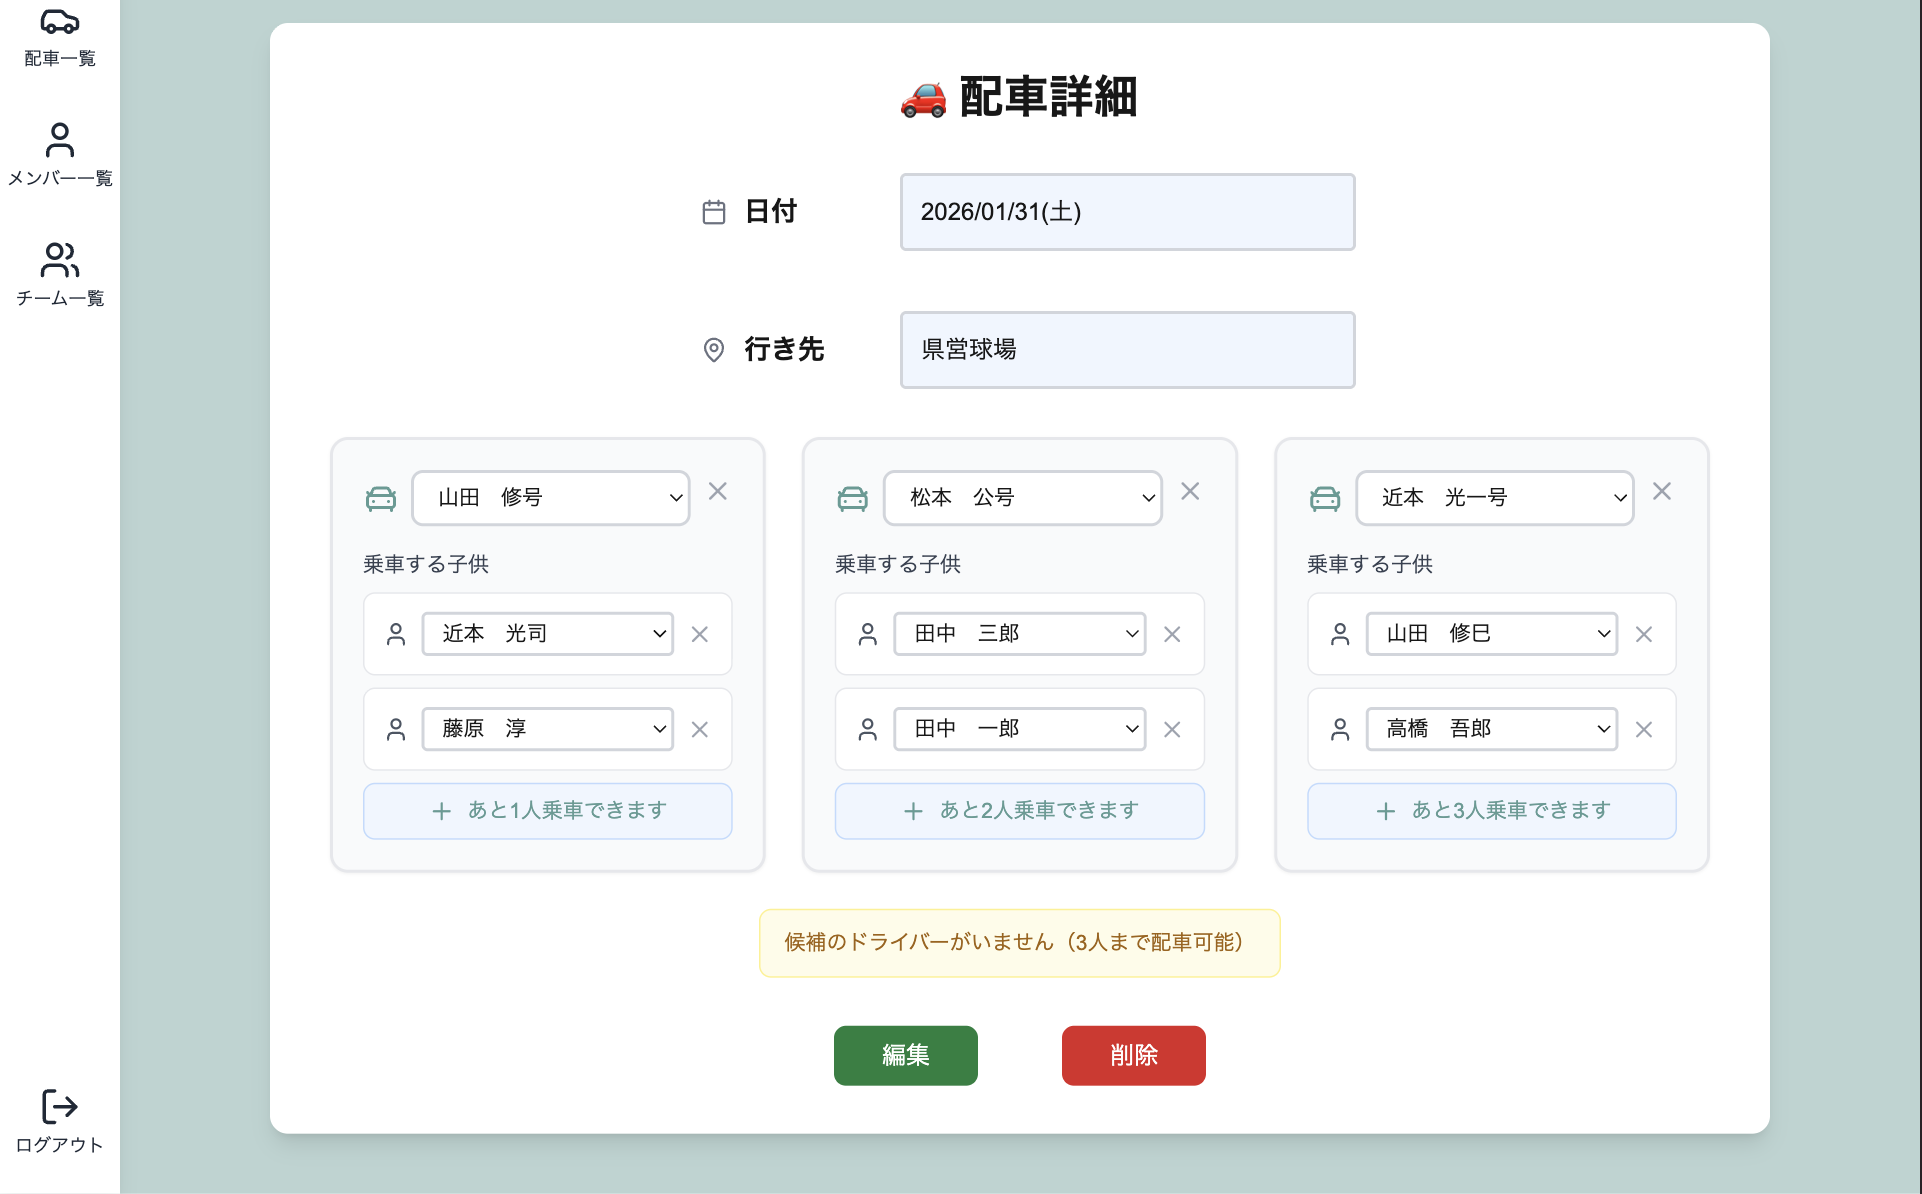
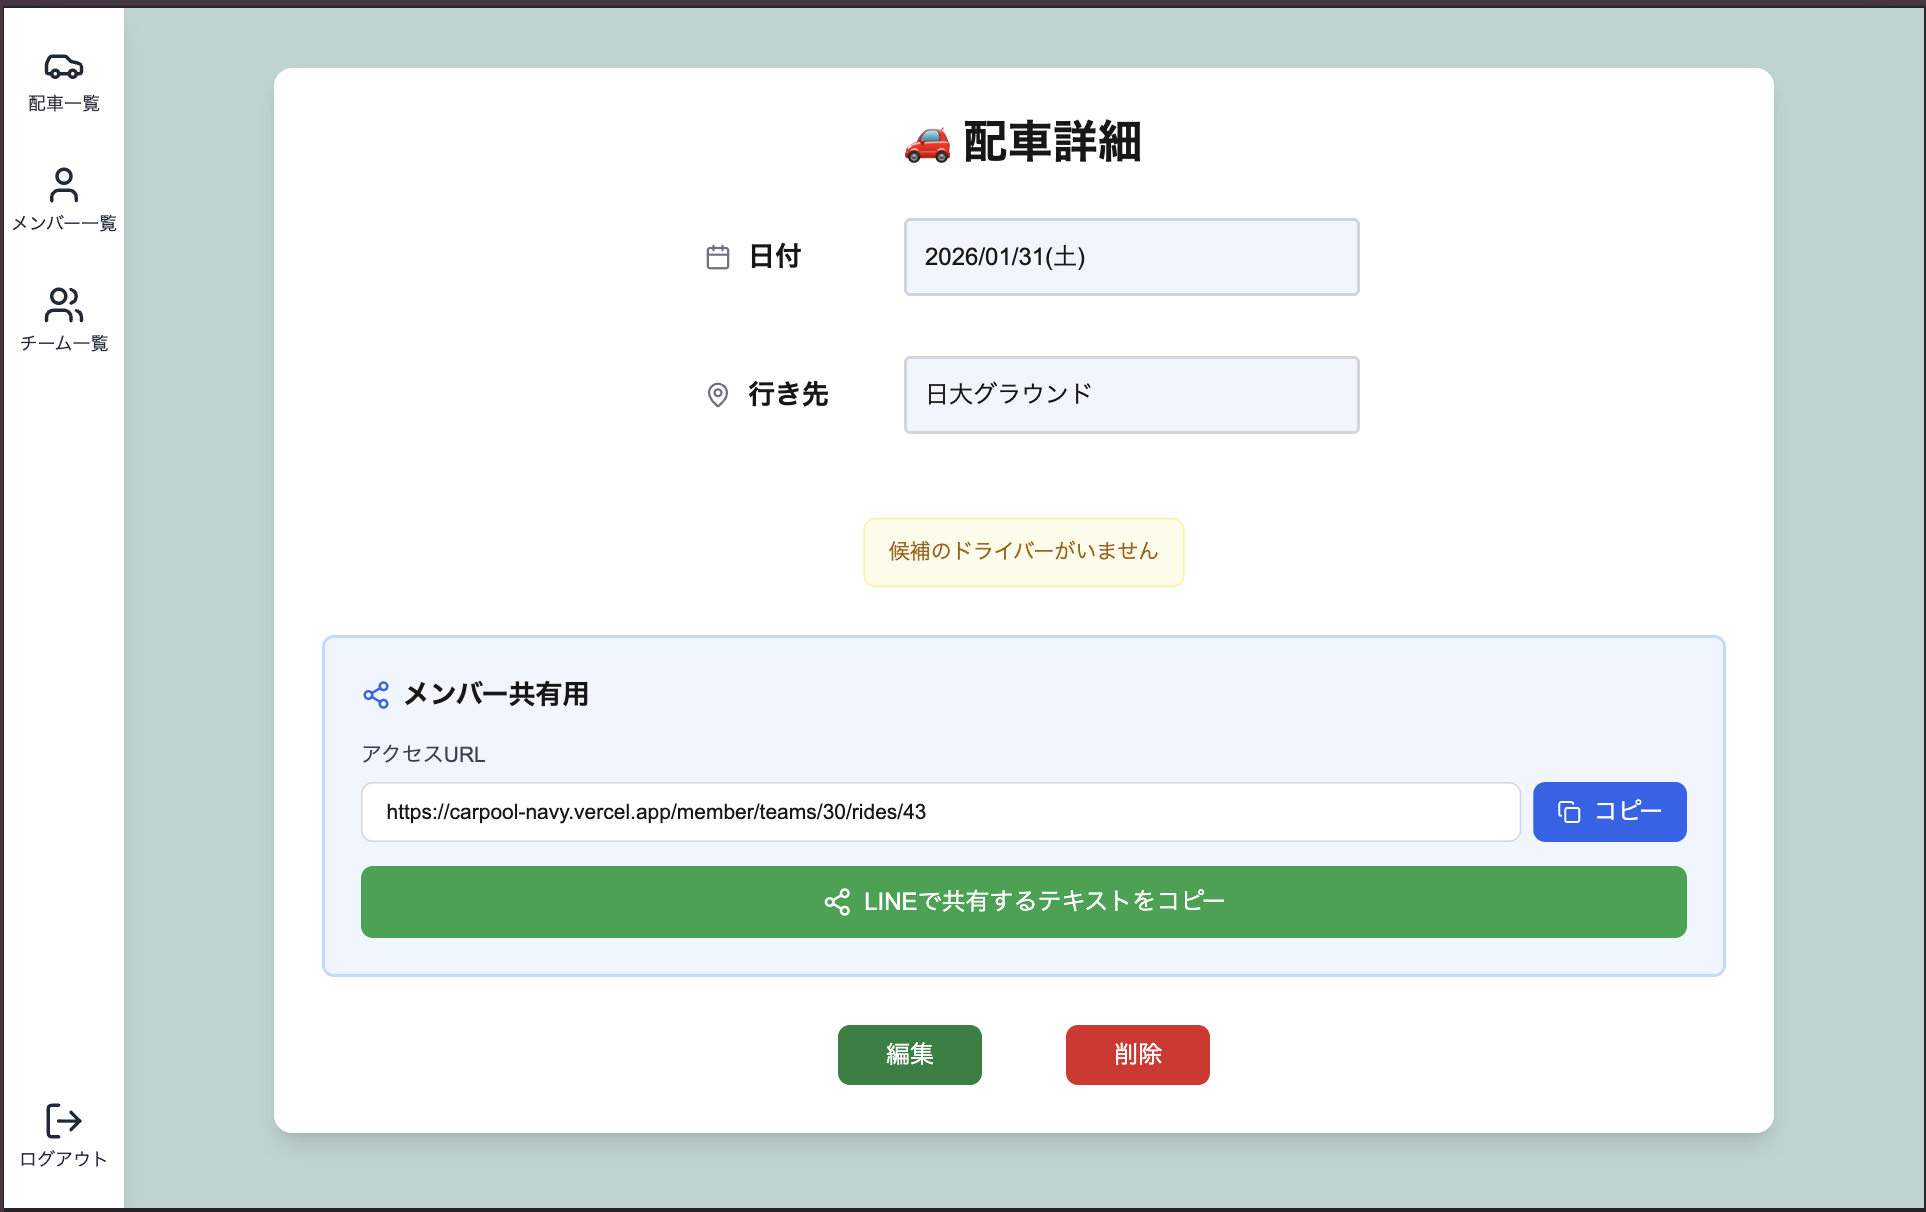
feat: READMEに配車詳細画面のワンクリック共有機能を追加し、スクリーンショットを更新

diff --git a/README.md b/README.md
@@ -57,8 +57,20 @@ https://carpool-navy.vercel.app/
 
 | 配車割り当て画面 | 配車詳細画面 |
 | ---- | ---- |
-| ![配車割り当て](./public/screenshots/assign-edit.png) | ![配車詳細](./public/screenshots/carpool-detail.png) |
-| ドライバーごとに子供を割り当て。候補ドライバーが不足している場合と、指定された座席数を超えないように警告を表示しています。 | 完成した配車をメンバー全員で共有。誰がどの車に乗るか一目瞭然です |
+| ![配車割り当て](./public/screenshots/assign-edit.png) | ![配車詳細](./public/screenshots/ride-detail.png) |
+| ドライバーごとに子供を割り当て、候補ドライバーが不足している場合と、指定された座席数を超えないように警告を表示しています。**メンバー共有用URLとPINコードをワンクリックでコピー可能。LINEなどで簡単に共有できます。** | 完成した配車をメンバー全員で共有。誰がどの車に乗るか一目瞭然です。 |
+
+<br/>
+
+## 主な特徴
+
+###  ワンクリック共有機能
+
+配車詳細画面から、メンバー用のアクセスURLとPINコードを簡単にコピーできます。
+
+- **直接アクセス**: 配車詳細URLを共有することで、メンバーは該当の配車に直接アクセス
+- **LINEで共有**: ボタン1つで共有用テキストをコピー。LINEグループに貼り付けるだけ
+- **迷わない導線**: PIN入力後、その配車の詳細ページに自動遷移
 
 <br/>
 
